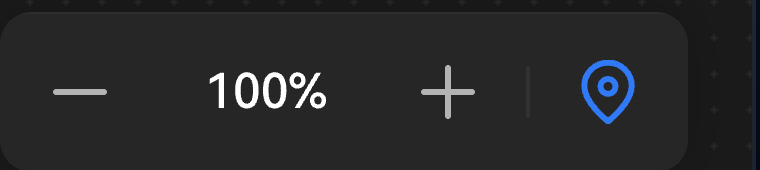
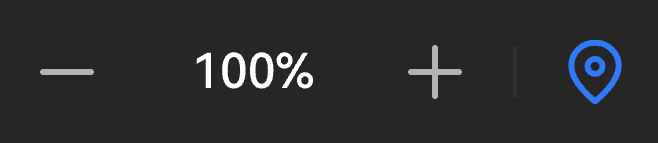
fix: align fullscreen zoom bar with 1030 heat sketch (#164)
* fix: align fullscreen zoom bar with 1030 heat sketch

Place the zoom pill under the diagram (left of heat) with matching #262626/8px chrome, flush bottoms, and a 16px column gap; refresh the fullscreen sketch crop.

* fix: expect fullscreen zoom pill #262626 in MEMTOP-014 e2e

* docs: match fullscreen specs to the #262626 zoom pill

PR-ROOT-027 and the heat fullscreen-ground row still said only the
heat panel paints #262626 and that the controls sit on the card.
The overlay bar is a #262626 / 8px pill; the diagram stays transparent.

* docs: say the fullscreen heat column is 400px

The topology fullscreen narrative still said 320px. The overlay
rule and PR-ROOT-025 already lock the column at 400px.

---------

diff --git a/src/ui/ProfilingReport/ProfilingReport.vue b/src/ui/ProfilingReport/ProfilingReport.vue
@@ -2261,9 +2261,12 @@ defineExpose({ selectEventById, viewState, selectedOperatorId });
   overflow: hidden;
 }
 
-/* §11.2.3.2: the heat panel takes the overlay's right column, the diagram keeps the rest. */
+/* §11.2.3.2: the heat panel takes the overlay's right column, the diagram keeps the rest.
+ * 16px gap ≈ sketch breathing room between the zoom pill and the heat card (~28px at 1× on the
+ * 1030 frame; 16 keeps the columns close without kissing). */
 .pr-topo-fs__body--split {
   flex-direction: row;
+  gap: 16px;
 }
 
 .pr-topo-fs__diagram {
@@ -2305,8 +2308,11 @@ defineExpose({ selectEventById, viewState, selectedOperatorId });
   box-sizing: border-box;
   overflow: hidden;
   /* Stacked aside keeps the `#262626` card; fullscreen sits on the overlay ground so only the
-   * heat column reads as a grey panel (v930-sim/memory-topology-fullscreen). */
+   * heat column reads as a grey panel (v930-sim/memory-topology-fullscreen). Drop the aside's
+   * 6px pad so the zoom pill's bottom lines up with the heat card (1030 sketch). */
   background: transparent;
+  padding: 0;
+  border-radius: 0;
 }
 
 /* Fill the leftover box (wide host). The panel's own frame keeps `aspect-ratio` in the stacked
@@ -2335,11 +2341,12 @@ defineExpose({ selectEventById, viewState, selectedOperatorId });
  * old `width/height: 100%` — fills the stage's *used* box rather than the chrome ratio, and only
  * agreed with it while the stage happened to be that ratio. */
 
-/* The export's overlay frame drops the aside's bar strip: covering the report already separates the
- * controls from everything else, so they sit straight on the card (PR-MEMTOP-014). Padding stays —
- * it is the control's own hit spacing, not the strip's. */
+/* Fullscreen drops the aside's `#313131` strip (PR-MEMTOP-014) but keeps a grey pill — sketch
+ * `#262626` on the darker overlay ground, same `8px` corner as the heat card. Bar stays in the
+ * diagram column (`align-self: flex-end`) — left of the heat panel, bottoms flush (1030). */
 .pr-topo-fs__body :deep(.pr-topo__bar) {
-  background: transparent;
+  background: #262626;
+  border-radius: 8px;
 }
 
 .pr-export-modal {

diff --git a/tests/e2e/topology-zoom-geometry.spec.ts b/tests/e2e/topology-zoom-geometry.spec.ts
@@ -197,8 +197,8 @@ test('PR-MEMTOP-014: the overlay drops the bar strip the aside keeps', async ({ 
     '[data-testid="topology-fullscreen-overlay"] [data-testid="memory-topology-panel"]',
   );
   await expect(overlay).toBeVisible();
-  // The export's fullscreen frame has no `#313131` lift: the controls sit straight on the card.
-  expect(await barBackground(overlay)).toBe('rgba(0, 0, 0, 0)');
+  // Fullscreen drops the aside `#313131` strip and paints a `#262626` pill (1030 sketch).
+  expect(await barBackground(overlay)).toBe('rgb(38, 38, 38)');
 });
 
 /**
@@ -537,8 +537,15 @@ test('PR-ROOT-025: the heat panel takes the overlay’s right column; the diagra
   const columnBox = (await column.boundingBox())!;
   const heatBox = (await heat.boundingBox())!;
   expect(heatBox.width).toBeCloseTo(400, 0);
-  expect(heatBox.x).toBeGreaterThanOrEqual(columnBox.x + columnBox.width - SLOP);
+  // Split body keeps a 16px gap between the diagram column and the heat card.
+  expect(heatBox.x - (columnBox.x + columnBox.width)).toBeCloseTo(16, 0);
   expect(Math.abs(heatBox.height - columnBox.height)).toBeLessThanOrEqual(SLOP + 2);
+
+  // Zoom bar stays in the diagram column (sketch 1030) — left of the heat panel, bottoms flush.
+  const controlsBox = (await overlay.getByTestId('topology-controls').boundingBox())!;
+  expect(controlsBox.x + controlsBox.width).toBeLessThanOrEqual(heatBox.x - 16 + SLOP);
+  expect(controlsBox.x).toBeGreaterThanOrEqual(columnBox.x - SLOP);
+  expect(controlsBox.y + controlsBox.height).toBeCloseTo(heatBox.y + heatBox.height, 0);
 
   // The diagram still fills its (now narrower) box at the chrome's own ratio (PR-MEMTOP-013b).
   const panel = overlay.locator('[data-testid="memory-topology-panel"]');

diff --git a/src/ui/ProfilingReport/ProfilingReport.spec.ts b/src/ui/ProfilingReport/ProfilingReport.spec.ts
@@ -1732,9 +1732,18 @@ describe('ProfilingReport scaffold', () => {
     expect(src).toMatch(/\.pr-topo-fs\s*\{[^}]*background:\s*#1a1a1a/s);
     expect(src).not.toMatch(/\.pr-topo-fs\s*\{[^}]*background:\s*var\(--pr-bg-aside/s);
     expect(src).toMatch(/\.pr-topo-fs__heat\s*\{[^}]*flex:\s*0\s+0\s+400px/s);
+    expect(src).toMatch(/\.pr-topo-fs__body--split\s*\{[^}]*gap:\s*16px/s);
     expect(src).toMatch(
       /\.pr-topo-fs__body\s+:deep\(\.pr-topo\)\s*\{[^}]*background:\s*transparent/s,
     );
+    // Zoom pill is `#262626` / `8px` on the overlay ground (1030 sketch), not transparent.
+    expect(src).toMatch(
+      /\.pr-topo-fs__body\s+:deep\(\.pr-topo__bar\)\s*\{[^}]*background:\s*#262626/s,
+    );
+    expect(src).toMatch(
+      /\.pr-topo-fs__body\s+:deep\(\.pr-topo__bar\)\s*\{[^}]*border-radius:\s*8px/s,
+    );
+    expect(src).toMatch(/\.pr-topo-fs__body\s+:deep\(\.pr-topo\)\s*\{[^}]*padding:\s*0/s);
 
     const wrapper = mount(ProfilingReport, {
       props: {

diff --git a/src/ui/StatsAside/MemoryHeatmapPanel/MemoryHeatmapPanel.spec.ts b/src/ui/StatsAside/MemoryHeatmapPanel/MemoryHeatmapPanel.spec.ts
@@ -171,6 +171,7 @@ describe('MemoryHeatmapPanel', () => {
     expect(src).toMatch(/--pr-heat-radius:\s*5px/);
     expect(src).toMatch(/border-radius:\s*var\(--pr-heat-radius\)/);
     expect(src).toMatch(/\.pr-heat\s*\{[^}]*overflow:\s*hidden/s);
+    expect(src).toMatch(/\.pr-heat\s*\{[^}]*border-radius:\s*8px/s);
     // Footer budget assumes these used line-boxes (31+22)+(13+15).
     expect(src).toMatch(/\.pr-heat__title\s*\{[^}]*line-height:\s*22px/s);
     expect(src).toMatch(/\.pr-heat__metric\s*\{[^}]*line-height:\s*15px/s);

diff --git a/src/ui/StatsAside/MemoryHeatmapPanel/MemoryHeatmapPanel.vue b/src/ui/StatsAside/MemoryHeatmapPanel/MemoryHeatmapPanel.vue
@@ -236,6 +236,8 @@ function onTabsKeydown(e: KeyboardEvent) {
   min-height: 0;
   padding: 12px;
   background: #262626;
+  /* 1030 fullscreen: same corner as the zoom pill (~25px at 4× → 6px; 8px token). */
+  border-radius: 8px;
   color: #fff;
   font-size: 12px;
   overflow: hidden;

diff --git a/src/ui/ProfilingReport/ProfilingReport.spec.md b/src/ui/ProfilingReport/ProfilingReport.spec.md
@@ -167,7 +167,7 @@ Two loading paths produce different results: `.rep` enables full UI (swimlane + 
 
 **Dependency state.** `dependencyMode` and `dependencyDepth` are one pair of values, held here and read by both dependency surfaces: the swimlane curves and the detail dock's Relevent column, which walk the same `SwimEvent.dependencies` refs with the same filter. The dock's Relevent toolbar is where the user edits them; the props seed them and a change re-walks in place. `hasDependencies` gates the walk, so a model without edges hands the dock no neighbours and the column never mounts. Neighbour semantics — cap, ordering, cycles — belong to [dependencies](../../../specs/core/dependencies.spec.md).
 
-**Topology fullscreen.** The stacked diagram's bar **全屏** control (fit-window icon + square; `title`/`aria-label` = Full screen, from `MemoryTopologyPanel` with `showFullscreen`; [panel spec](../StatsAside/MemoryTopologyPanel/MemoryTopologyPanel.spec.md) PR-MEMTOP-014) reaches the root as `open-topology-fullscreen` with the current `MemoryTopologyModel` — StatsAside re-emits it. The root covers `.pr-root` (toolbar + timeline + aside) with an opaque overlay: Back (`t('back')`) + title **内存拓扑** / Memory topology, then `MemoryTopologyPanel` fitted into the remaining box (the box is the leftover area, wider than the diagram here, and the diagram keeps the chrome's 448:423 ratio inside it — [panel spec](../StatsAside/MemoryTopologyPanel/MemoryTopologyPanel.spec.md) PR-MEMTOP-013), keeping the bar's **缩小** / `%` / **放大** / **适应窗口** but **not** 全屏 (the overlay is already full, and it is a fresh mount, so it starts at 100% with its own zoom). The overlay passes **`wheelGestures`** so plain vertical wheel can zoom at fit; pinch / Ctrl+wheel zoom also work on the stacked aside ([panel spec](../StatsAside/MemoryTopologyPanel/MemoryTopologyPanel.spec.md) PR-MEMTOP-020). Emulate / `archDiagram`: the same **Metric** `CardMetricSelect` as the stacked aside sits above the overlay diagram and shares `archMetricMode` with StatsAside — changing mode rebuilds `fullscreenTopology` from ArchDiagramMetrics (PR-ROOT-019). **§11.2.3.2 heat column.** When the report carries the `memoryHeatmap` capability with at least one unit, the overlay's body splits: the diagram (and the Metric switcher, when there is one) takes the left column and [MemoryHeatmapPanel](../StatsAside/MemoryHeatmapPanel/MemoryHeatmapPanel.spec.md) is mounted as a 320px right column. The root owns the single `selectedMemoryUnit` both surfaces read: 全屏 defaults it to the model's first unit (默认选中一个 memory), a click on a unit **on the stacked diagram** arrives as the re-emit's second argument and opens the overlay already on that unit (点击一个 memory 进来则直接对应显示相应的内容), and either surface can move it afterwards. `activeMemoryUnit` resolves `selectedMemoryUnit` to the model's first unit when nothing is chosen, and the overlay's leave clears the choice, so the heat surface is per session. The stacked diagram only offers the click when a heat surface exists (`memoryHeatmap`, [PR-MEMTOP-021](../StatsAside/MemoryTopologyPanel/MemoryTopologyPanel.spec.md)). The overlay also drops the bar's `#313131` strip, as the export's fullscreen frame does, so the controls sit straight on the card. Show/hide is a 200ms opacity + slight scale `Transition` (`pr-topo-fs`; instant under `prefers-reduced-motion: reduce`). The model stays until `@after-leave` so the leave frame still paints; a mid-leave reopen keeps the new model (`after-leave` clears only while still closed). Leave uses `pointer-events: none` so clicks reach the report underneath. WASD stay idle for the whole cover window (open flag **or** held model during leave). The overlay is a modal dialog (`role="dialog"`, `aria-modal`); focus moves to Back on open. `ReportLayout` stays mounted. Back or Escape restores the stacked report (aside open/width/scroll unchanged). Escape still clears an active measure session first. Overlay right-click does not open the memory CSV overlay and does not close fullscreen (browser context menu is suppressed). Stacked-diagram UI-35 is unchanged. A report / operator change closes the overlay. Not the browser Fullscreen API.
+**Topology fullscreen.** The stacked diagram's bar **全屏** control (fit-window icon + square; `title`/`aria-label` = Full screen, from `MemoryTopologyPanel` with `showFullscreen`; [panel spec](../StatsAside/MemoryTopologyPanel/MemoryTopologyPanel.spec.md) PR-MEMTOP-014) reaches the root as `open-topology-fullscreen` with the current `MemoryTopologyModel` — StatsAside re-emits it. The root covers `.pr-root` (toolbar + timeline + aside) with an opaque overlay: Back (`t('back')`) + title **内存拓扑** / Memory topology, then `MemoryTopologyPanel` fitted into the remaining box (the box is the leftover area, wider than the diagram here, and the diagram keeps the chrome's 448:423 ratio inside it — [panel spec](../StatsAside/MemoryTopologyPanel/MemoryTopologyPanel.spec.md) PR-MEMTOP-013), keeping the bar's **缩小** / `%` / **放大** / **适应窗口** but **not** 全屏 (the overlay is already full, and it is a fresh mount, so it starts at 100% with its own zoom). The overlay passes **`wheelGestures`** so plain vertical wheel can zoom at fit; pinch / Ctrl+wheel zoom also work on the stacked aside ([panel spec](../StatsAside/MemoryTopologyPanel/MemoryTopologyPanel.spec.md) PR-MEMTOP-020). Emulate / `archDiagram`: the same **Metric** `CardMetricSelect` as the stacked aside sits above the overlay diagram and shares `archMetricMode` with StatsAside — changing mode rebuilds `fullscreenTopology` from ArchDiagramMetrics (PR-ROOT-019). **§11.2.3.2 heat column.** When the report carries the `memoryHeatmap` capability with at least one unit, the overlay's body splits: the diagram (and the Metric switcher, when there is one) takes the left column and [MemoryHeatmapPanel](../StatsAside/MemoryHeatmapPanel/MemoryHeatmapPanel.spec.md) is mounted as a 400px right column. The root owns the single `selectedMemoryUnit` both surfaces read: 全屏 defaults it to the model's first unit (默认选中一个 memory), a click on a unit **on the stacked diagram** arrives as the re-emit's second argument and opens the overlay already on that unit (点击一个 memory 进来则直接对应显示相应的内容), and either surface can move it afterwards. `activeMemoryUnit` resolves `selectedMemoryUnit` to the model's first unit when nothing is chosen, and the overlay's leave clears the choice, so the heat surface is per session. The stacked diagram only offers the click when a heat surface exists (`memoryHeatmap`, [PR-MEMTOP-021](../StatsAside/MemoryTopologyPanel/MemoryTopologyPanel.spec.md)). The overlay also drops the bar's `#313131` strip and paints the same controls as a `#262626` / `8px` pill under the diagram column (left of the heat card, bottoms flush) on the `#1a1a1a` overlay ground. Show/hide is a 200ms opacity + slight scale `Transition` (`pr-topo-fs`; instant under `prefers-reduced-motion: reduce`). The model stays until `@after-leave` so the leave frame still paints; a mid-leave reopen keeps the new model (`after-leave` clears only while still closed). Leave uses `pointer-events: none` so clicks reach the report underneath. WASD stay idle for the whole cover window (open flag **or** held model during leave). The overlay is a modal dialog (`role="dialog"`, `aria-modal`); focus moves to Back on open. `ReportLayout` stays mounted. Back or Escape restores the stacked report (aside open/width/scroll unchanged). Escape still clears an active measure session first. Overlay right-click does not open the memory CSV overlay and does not close fullscreen (browser context menu is suppressed). Stacked-diagram UI-35 is unchanged. A report / operator change closes the overlay. Not the browser Fullscreen API.
 
 ## Visual
 
@@ -201,7 +201,7 @@ Two loading paths produce different results: `.rep` enables full UI (swimlane + 
 24. **PR-ROOT-024** — With `source` and `allowHtmlExport: true`, the toolbar shows `export-html`. Click opens `html-export-dialog` (preparing + Cancel). Cancel / Escape abort fetch and close. Success stitches `htmlExportTemplateUrl` using the current **locale**, downloads `{name}.html`, emits `export-html`, and closes the dialog. Fetch/stitch failure keeps the dialog with the error and Close — it does **not** emit `error` (that event is load/parse only). Default `allowHtmlExport` is false (MSTT / hosts that do not serve the template). Host-managed mode without `source` hides it.
 25. **PR-ROOT-025** — §11.2.3.2: the topology 全屏 overlay mounts [MemoryHeatmapPanel](../StatsAside/MemoryHeatmapPanel/MemoryHeatmapPanel.spec.md) as a **400px** right column beside the diagram when the report carries the `memoryHeatmap` capability **and** a unit to draw; without the capability, or without a unit, the overlay is the diagram alone (no empty panel, no reserved column). The panel gets the root's `memoryHeatmap`, not the topology carrier.
 26. **PR-ROOT-026** — The overlay owns the one `selectedMemoryUnit` the diagram and the panel share: opening via 全屏 selects the first unit the adapter could fill (the model's own `units[0]`, 默认选中一个 memory), opening by clicking a unit on the **stacked** diagram selects that unit (点击一个 memory 进来), a panel tab click or a diagram unit click sets it, and the diagram's selected highlight and the panel's active tab always read the same value. Re-clicking the selected unit is a no-op (no toggle-off). It is per overlay session: the overlay's leave clears it (a report / operator change closes the overlay the same way), so reopening defaults again.
-27. **PR-ROOT-027** — The heat column does not disturb the overlay's existing geometry: the diagram keeps its own box (the fit frame still sizes from `100cqh`, see [MemoryTopologyPanel](../StatsAside/MemoryTopologyPanel/MemoryTopologyPanel.spec.md)) inside the narrower left column, the zoom bar and wheel gestures are unchanged, and the Metric switcher (when `archDiagram`) stays over the diagram, not over the panel. The heat column itself is height-bounded (`align-self: stretch; overflow: hidden`) so [MemoryHeatmapPanel](../StatsAside/MemoryHeatmapPanel/MemoryHeatmapPanel.spec.md) can **resize** its lattice to fit. The overlay ground is literal `#1a1a1a` (dark-only; not `--pr-bg-aside`) and the diagram `.pr-topo` is transparent there — only the heat panel paints `#262626`.
+27. **PR-ROOT-027** — The heat column does not disturb the overlay's existing geometry: the diagram keeps its own box (the fit frame still sizes from `100cqh`, see [MemoryTopologyPanel](../StatsAside/MemoryTopologyPanel/MemoryTopologyPanel.spec.md)) inside the narrower left column, the zoom bar and wheel gestures are unchanged, and the Metric switcher (when `archDiagram`) stays over the diagram, not over the panel. The heat column itself is height-bounded (`align-self: stretch; overflow: hidden`) so [MemoryHeatmapPanel](../StatsAside/MemoryHeatmapPanel/MemoryHeatmapPanel.spec.md) can **resize** its lattice to fit. The overlay ground is literal `#1a1a1a` (dark-only; not `--pr-bg-aside`) and the diagram `.pr-topo` is transparent there. The fullscreen zoom bar is a `#262626` / `8px` pill; the heat card is the other `#262626` paint.
 
 ## Edge Cases
 
@@ -235,6 +235,7 @@ All child component specs. [CursorTimestamp](../CursorTimestamp/CursorTimestamp.
 DATA-30 (OP selector semantics), PROC-3 (standalone CTEF hides aside).
 
 ## Changelog
+- **2026-10-21** — Fullscreen zoom bar is a `#262626` / `8px` pill on the `#1a1a1a` overlay ground (PR-ROOT-027). Diagram `.pr-topo` stays transparent; the heat card is not the only `#262626` paint. Behavior prose now says the heat column is **400px** (it still said 320px; PR-ROOT-025 already said 400px).
 - **2026-10-06** — `allowHtmlExport` defaults false (opt-in; MSTT does not serve the template). Export failure stays in the dialog and does not emit `error`. Inputs default URL is `/npu-rep-html-template.txt` (`PR-ROOT-024`).
 - **2026-10-06** — Download HTML stitches the live **locale** into the bundle (`PR-ROOT-024`).
 - **2026-10-05** — HTML export template URL is `/npu-rep-html-template.txt` with `__HTML_EXPORT_*` placeholders so Vite `%ENV%` replacement cannot strip the embed slot (`PR-ROOT-024` / `PR-E2E-017`).

diff --git a/src/ui/StatsAside/MemoryTopologyPanel/MemoryTopologyPanel.spec.md b/src/ui/StatsAside/MemoryTopologyPanel/MemoryTopologyPanel.spec.md
@@ -46,7 +46,7 @@ Official product memory-path topology chrome with **data-driven link values** (c
 11. **Accessible description (PR-MEMTOP-011):** the root `role="img"` makes the diagram one image, so its `<text>` values do not reach the a11y tree by themselves. The panel therefore also renders a visually hidden list of the slots it draws — `{from} → {to}: {value}` once per edge plus the L2 plate and the in-box badges (one entry per unit) — and points the `svg` at it with `aria-describedby`. Slots left blank and edges with no slot are omitted. Each instance uses its own id (`useId`), because the stacked aside and the fullscreen overlay render two panels at once.
 12. **Slot testids (PR-MEMTOP-002b):** `data-testid` is `edge-{edge-id}-{slotIndex}` for link values and `plate-{node}-{slotIndex}` for in-box badges, so the AIV0/AIV1 pairs resolve to distinct elements.
 13. **Chrome load failure (PR-MEMTOP-012):** if the `<image>` errors, warn once, suppress value overlays (link values and in-box badges alike), and clear `aria-describedby` so hosts missing `/memory-topology.svg` do not see orphaned numbers or a dangling description id. The bar goes with it: a zoom control over a diagram that failed to load is dead chrome.
-14. **Zoom / fullscreen bar (PR-MEMTOP-014):** under the diagram, aligned to the panel's end, on its own `#313131` strip (the v930-sim export's 5% lift over the `#262626` card). Controls in the export's order: **缩小** (−), the current readout (`100%`), **放大** (+), **适应窗口** (the accent control), and — only when **showFullscreen** — **全屏**. Each control is a `<button>` with `aria-label`/`title` from i18n (`zoomOut` / `zoomIn` / `zoomFit` / `fullscreen`); the readout is `aria-live="polite"` so keyboard zooming is announced. The strip belongs to the stacked bar: the export's fullscreen frame has none, so the root overlay drops it and its controls sit straight on the card (a host override, not a second bar — the panel's markup is the same in both).
+14. **Zoom / fullscreen bar (PR-MEMTOP-014):** under the diagram, aligned to the panel's end, on its own `#313131` strip (the v930-sim export's 5% lift over the `#262626` card). Controls in the export's order: **缩小** (−), the current readout (`100%`), **放大** (+), **适应窗口** (the accent control), and — only when **showFullscreen** — **全屏**. Each control is a `<button>` with `aria-label`/`title` from i18n (`zoomOut` / `zoomIn` / `zoomFit` / `fullscreen`); the readout is `aria-live="polite"` so keyboard zooming is announced. The strip belongs to the stacked bar: the fullscreen overlay drops the strip colour and paints the same controls as a `#262626` pill on the overlay ground (1030 sketch; a host override, not a second bar — the panel's markup is the same in both).
 15. **Zoom (PR-MEMTOP-015):** the readout walks a discrete **1.5×** geometric ladder around 100%, clamped to **50…500%** — `50, ≈67, 100, 150, 225, ≈338, 500` (%) — one stop per **+**/**−**; at either end the control is disabled rather than a no-op. **100% is fitted to the box**, not 1:1 chrome units: the panel has no fixed pixel budget (the stacked aside and the root overlay differ), so 100% is the one scale that is right in both, and the diagram keeps filling the panel exactly as before this control existed. **适应窗口** returns to 100% *and* to the scroll origin, and so does stepping back down to a fitted stop — a diagram panned while zoomed in comes back to its top-left corner rather than to an offset the box can no longer show (PR-MEMTOP-013).
 16. **Zoom geometry (PR-MEMTOP-013 / 013b):** the diagram sits in a fit **frame** of the chrome's own 448:423 ratio, and inside it a scrollport that fills the frame. The **stage** is the *diagram's* own box — `--pr-topo-zoom` times the **frame** height (`100cqh`), with the width following the chrome ratio from that height, so the drawing fills the stage exactly. Zoom scales that stage; the frame around it is unchanged. Classic scrollbars appear on the scrollport past the fit and must **not** change the stage size (PR-MEMTOP-013b): sizing the stage from the scrollport's client area used to shrink the drawing when the bars appeared. A zoomed diagram is panned with the scroll the scrollport already has — its own bars (PR-MEMTOP-013) and a drag on the drawing (PR-MEMTOP-017) — with no transform on the panel. Sizing the stage from the *window* in both axes is only right where the window already has the chrome ratio (the stacked aside); in the wide overlay it left the scroll travelling through empty stage (measured at 125% there: a 1955×963 stage around a 799×963 drawing, i.e. 391px of a 391px horizontal range was blank), so the pan now covers the diagram's own overflow in both hosts.
     At or below the fit the diagram is **centred** in the box, and the fitted box is **not a scroll container at all** and shows no scrollbar. It would otherwise be one over nothing: the box's height comes from `aspect-ratio` while the diagram's comes from its own intrinsic ratio, and the two agree only to a rounding step (511 vs 511.0625 in Chrome), which is enough to paint a stray permanent scrollbar wherever a platform does not snap that overhang away. Centring is a fitted-state rule only — a centred item that overflows would leave its own start edge unreachable, which is why the panning state aligns the stage to the box.
@@ -169,7 +169,7 @@ Chrome: [`memory-topology.svg`](./memory-topology.svg) — official export, stat
 | L2 Peak(%) | DATA-20: `{n}%` in the L2 plate; `#fff`, same size and fit as the edge labels |
 | In-box unit badge | UI-49: `{n}%` in the unit's own box; `#fff`, same size as the edge labels, fit against the box width (`PLATE_MAX_W`) |
 | L2 node anchor | transparent (the chrome supplies the fill) |
-| Bar strip | `#313131` literal — the v930-sim export's 5% white lift over the panel. The frames are 8K for a 1920×1080 layout, i.e. **4×** CSS px: the strip measures 112 device px (≈ `28px`, against this bar's `30px`) and the readout's 36px ink is a `12px` face, the size used here. The overlay drops the strip, so the controls sit straight on the card (measured off `v930-sim/memory-topology-fullscreen`) |
+| Bar strip | `#313131` literal — the v930-sim export's 5% white lift over the panel. The frames are 8K for a 1920×1080 layout, i.e. **4×** CSS px: the strip measures 112 device px (≈ `28px`, against this bar's `30px`) and the readout's 36px ink is a `12px` face, the size used here. The overlay drops the strip and paints a `#262626` / `8px` pill at the **diagram column's** end (left of the heat panel, bottom flush with the heat card; measured off `v930-sim/memory-topology-fullscreen`, 1030 refresh) |
 | Bar control | `#b3b3b3` glyph, `#fff` on hover over `--pr-surface-hover`; `16px` glyph box (`10px` ink — the paths span 10 of 16 units) in a `24px` hit area, i.e. the repo's own icon chrome, the same box the aside header control it replaced used. The export's control inks measure ≈ `13.5px` with ≈ `40–47px` between centres (ours: `14px` gaps) — a deliberate chrome-scale choice, not a measurement claim; labels `缩小` / `放大` / `适应窗口` / `全屏` |
 | Bar accent | **适应窗口** only: `#3078f0` (the export measures (48,122,247); the repo's existing accent, e.g. `--pr-playhead`), `#5a9bff` on hover |
 | Bar readout | `100%`, `#fff`, `12px`, tabular numerals |
@@ -183,7 +183,7 @@ Chrome: [`memory-topology.svg`](./memory-topology.svg) — official export, stat
 - [memory-topology](./visual/memory-topology.png) — raster of that SVG
 - [buffer-links](./visual/buffer-links.png) — historical dual-AIV crop from `v930/change-log` (#5; DATA-27 evidence, not current chrome)
 - [zoom-bar](./visual/zoom-bar.png) — the bar on its `#313131` strip, stacked aside, from `v930-sim/memory-topology-zoom`
-- [fullscreen-bar](./visual/fullscreen-bar.png) — the same bar in the fullscreen overlay (no 全屏 control, no strip), from `v930-sim/memory-topology-fullscreen`
+- [fullscreen-bar](./visual/fullscreen-bar.png) — the same bar under the diagram column in the fullscreen overlay (left of heat; no 全屏 control, no strip), from `v930-sim/memory-topology-fullscreen`
 - [v930-chrome/memory-topology](../../../../docs/ui/source/v930-chrome/memory-topology.svg) — design-source batch copy
 - [change-log](../../../../docs/ui/source/v930/change-log.jpeg) — full frame (historical)
 - [report-stats-scrolled](../../../../docs/ui/source/v930/report-stats-scrolled.jpeg) — historical dual-AIV dump / aside shell
@@ -195,6 +195,7 @@ Chrome: [`memory-topology.svg`](./memory-topology.svg) — official export, stat
 DATA-20 (L2 Peak, resolved), DATA-21, DATA-22, DATA-23, DATA-24, DATA-25, DATA-28 (unit ratios), DATA-40 (GM↔L2 plates = aic + aiv summed, resolved), DATA-41 (AIC-row link values, partial), DATA-42 (sketch stack with no export plate, resolved), DATA-43 (DATA-39 row 24 = the `l2-l1-read` plate's field, row 32 = the summed Main Write; resolved), DATA-44 (DATA-39 rows 21/22 Cube↔L0C direction, open), DATA-51 (capacity fields, open — heat unit tooltip), UI-35, UI-38, UI-48, UI-49 (in-box unit badges, resolved), [view-models](../../../../specs/core/view-models.spec.md), [memory-topology](../../../../docs/views/memory-topology.md#edge-field-source), [memory-topology § Memory Utilization Heatmap](../../../../docs/views/memory-topology.md) (the heat surface this selection drives).
 
 ## Changelog
+- **2026-10-21** — Fullscreen sketch refresh (`v930-sim/memory-topology-fullscreen`, 1030): zoom bar sits under the **diagram** column (left of heat) as a `#262626` / `8px` pill, bottom flush with the heat card (aside `6px` pad dropped in 全屏). Crop / provenance updated; panel bar markup unchanged (`align-self: flex-end` in the diagram column).
 - **2026-10-01** — Review follow-up (PR-MEMTOP-023): a captured press (past the fit) now yields the unit selection too — pointer capture retargets `click` to the viewport, so the six units used to fall silent as soon as the diagram was zoomed; a press that moves more than 4px stays a pan, and `pointercancel` never selects. The travel is latched on the move (not read off the release point), so a drag that leaves the slop and returns to its origin is still a pan.
 - **2026-10-01** — §11.2.3.2 selection on the diagram (PR-MEMTOP-021/022/023): the six heat units `l2`/`l1`/`ub`/`l0a`/`l0b`/`l0c` are now hover-highlighted, pointer-cursored hit boxes (`MEMORY_UNIT_BOXES`, read off the chrome's own unit containers) that emit `open-memory-unit`, and the heat panel's selected unit is painted back on the diagram. Off unless the host sets `selectableUnits` (the `memoryHeatmap` capability), and the boxes are transparent so the chrome is unchanged without it.
 - **2026-09-24** — PR-MEMTOP-013b: fullscreen scrollport keeps `scrollbar-gutter: stable` (and `overflow: auto` at fit) so a classic vertical bar cannot re-centre the letterboxed stage.

diff --git a/src/ui/StatsAside/MemoryHeatmapPanel/MemoryHeatmapPanel.spec.md b/src/ui/StatsAside/MemoryHeatmapPanel/MemoryHeatmapPanel.spec.md
@@ -55,7 +55,7 @@ The frame's own block order is normative: tab strip → rule → legend → grid
 
 | Token | Value |
 |-------|-------|
-| Panel bg | `#262626` |
+| Panel bg | `#262626`, `8px` radius (1030 fullscreen — same corner as the zoom pill) |
 | Tab text / legend text | `#b3b3b3`, `#fff` when active |
 | Active tab indicator | `#ffffff`, `2px` tall, the label + 4px wide (the frame's 15px bar under an 11.5px `L1`), `12px` under the label and `12px` above the strip's rule (sketch ~12.5px) |
 | Tab strip rule | `#333333` `1px` across the panel's content width |
@@ -71,7 +71,7 @@ The frame's own block order is normative: tab strip → rule → legend → grid
 | Grid cell | `aspect-ratio: 1`, `2px` gap, `1px` radius |
 | Grid size | square cell = `min(width-fit, height-fit)` against the body (`100cq*` minus the title/metric footer); horizontally centred |
 | Short column | lattice resizes to fit; no body scrollbar (PR-HEAT-011). Legend→grid stays the legend's `24px` pad; spare height falls **below** the metric |
-| Fullscreen ground | overlay `#1a1a1a`; only this panel paints `#262626` (diagram `.pr-topo` is transparent in 全屏) |
+| Fullscreen ground | overlay `#1a1a1a`; diagram `.pr-topo` stays transparent. This panel and the fullscreen zoom pill both paint `#262626` |
 
 The two blues and the board/frame greys are the frame's own, sampled from `v930-sim/memory-topology-fullscreen` (`#3D64AD` legend/block ink, `#AFC6FE` empty-block ink, `#303F5E` board, `#6E798D` frame) and registered in [COLOR_TOKENS § Heatmap](../../../../docs/ui/COLOR_TOKENS.md). The diagram's selected/hover tints are the two blues ([MemoryTopologyPanel](../MemoryTopologyPanel/MemoryTopologyPanel.spec.md) PR-MEMTOP-022), so the two surfaces read as one selection.
 
@@ -89,6 +89,7 @@ The two blues and the board/frame greys are the frame's own, sampled from `v930-
 
 ## Changelog
 
+- **2026-10-21** — Heat card `border-radius: 8px` (same as the fullscreen zoom pill; ~25px at 4× on the 1030 sketch). Fullscreen ground: diagram `.pr-topo` stays transparent; this panel and the zoom pill both paint `#262626`.
 - **2026-10-09** — Title/metric line-heights (`22px` / `15px`) lock the `--pr-heat-footer: 81px` budget under height-fit; overlay ground called out as literal `#1a1a1a` (not `--pr-bg-aside`).
 - **2026-10-08** — Pixel re-compare to `v930-sim/memory-topology-fullscreen`: heat column **400px** (sketch ~398), title gap **31px** (122px÷4), indicator **12px** above the rule, grid radius **5px**. Legend→map gap: body is the size container; spare height falls below the metric. Short-column fit (PR-HEAT-011); overlay ground `#1a1a1a`; diagram `.pr-topo` transparent in 全屏.
 - **2026-10-06** — Short-column scroll (PR-HEAT-011, superseded 2026-10-08): the body was a vertical scrollport; replaced by lattice resize so sketch-faithful chrome stays put without a scrollbar.

diff --git a/docs/ui/DESIGN_INDEX.md b/docs/ui/DESIGN_INDEX.md
@@ -41,7 +41,7 @@ A resolution-only replacement of an existing source id (same frame, higher resol
 | Id | File | Typical consumers |
 |----|------|-------------------|
 | `v930-sim/memory-topology-zoom` | [`memory-topology-zoom.jpeg`](./source/v930-sim/memory-topology-zoom.jpeg) | 内存负载分析 zoom bar in the stacked aside (缩小 / % / 放大 / 适应窗口 / 全屏); clickable memory units (`L2Cache` / `L1` / `UB` / `L0A` / `L0B` / `L0C`) — hover highlight, click opens that unit's memory info |
-| `v930-sim/memory-topology-fullscreen` | [`memory-topology-fullscreen.jpeg`](./source/v930-sim/memory-topology-fullscreen.jpeg) | The same diagram in the root 全屏 overlay (fit-window control only, no 全屏, no strip) **plus** the §11.2.3.2 Memory Utilization Heatmap right panel: six unit tabs, two-state legend, block grid, `已用指令条数` |
+| `v930-sim/memory-topology-fullscreen` | [`memory-topology-fullscreen.jpeg`](./source/v930-sim/memory-topology-fullscreen.jpeg) | The same diagram in the root 全屏 overlay (zoom bar under the diagram column, left of heat; fit-window only, no 全屏, no strip) **plus** the §11.2.3.2 Memory Utilization Heatmap right panel: six unit tabs, two-state legend, block grid, `已用指令条数` |
 | `v930-sim/performance-hints` | [`performance-hints.jpeg`](./source/v930-sim/performance-hints.jpeg) | 性能提示 / 性能分析: title-row 性能分析 trigger (left of aside ×) + bottom hints table (Hint Message / Source Line / Instruction Address) |
 
 ## Source frames (`v930-source` — 源码)
